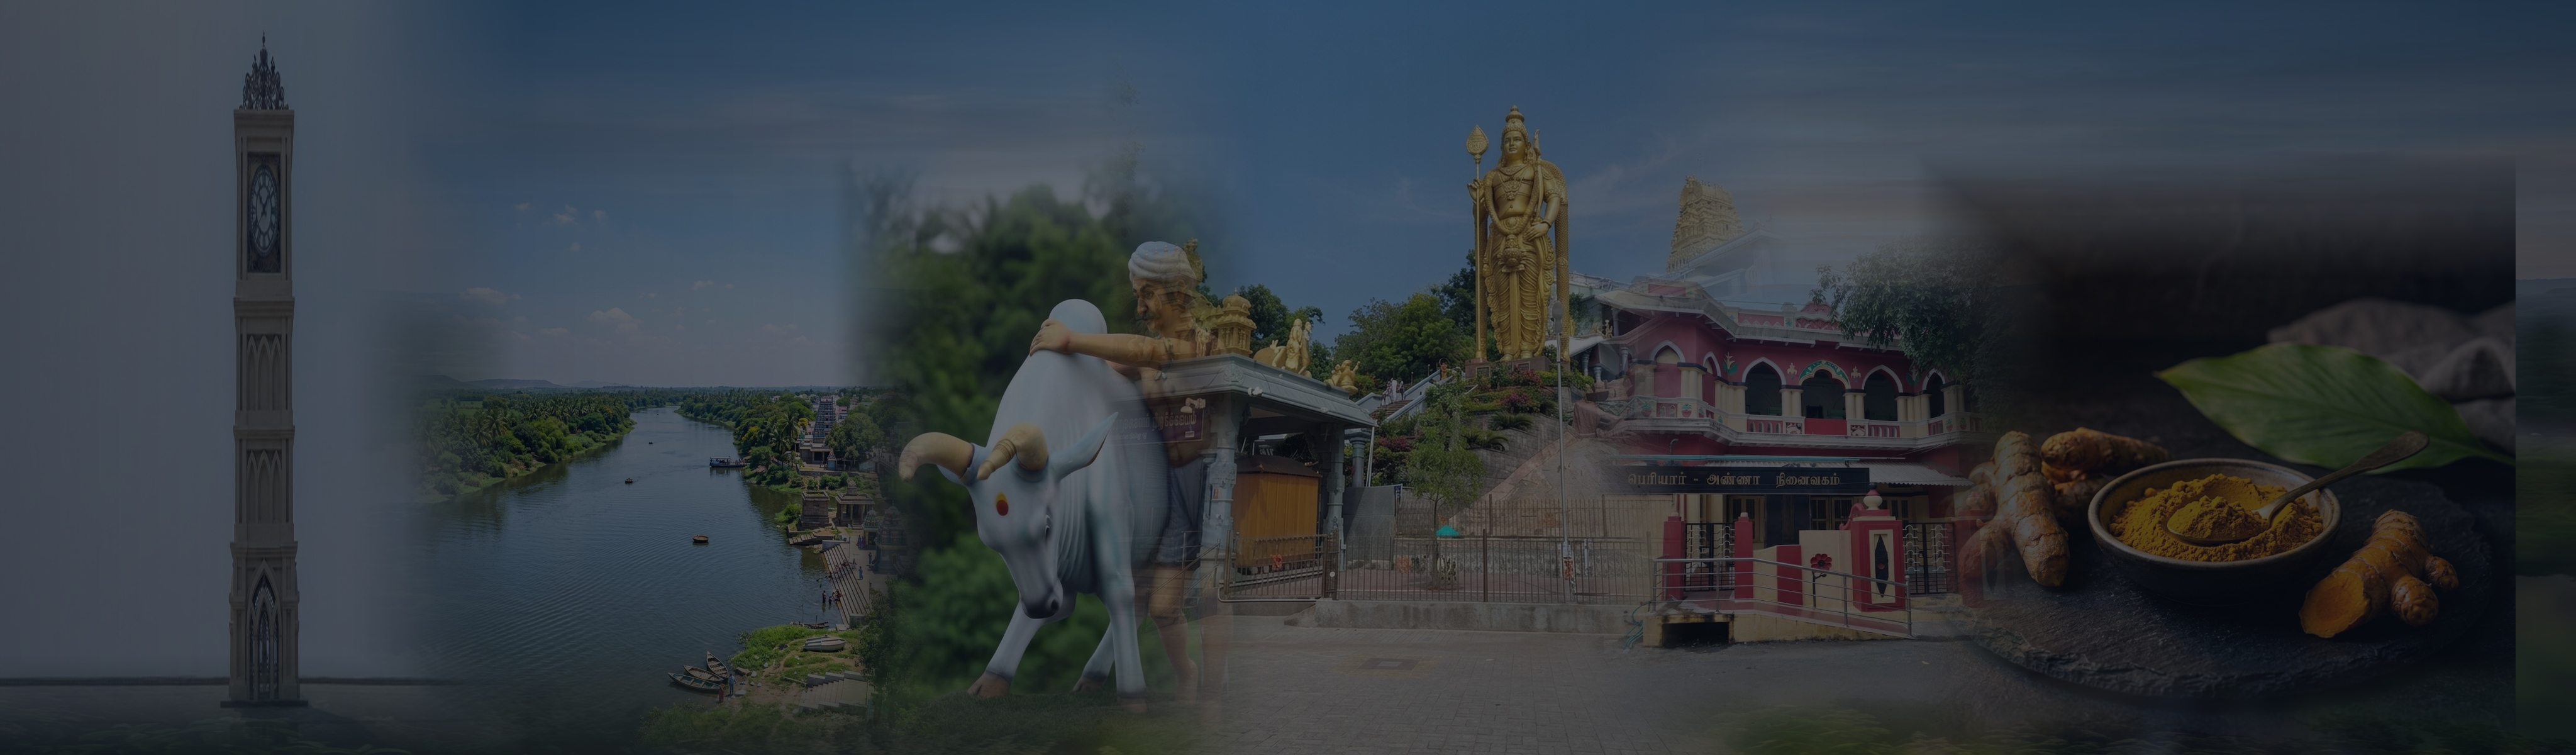
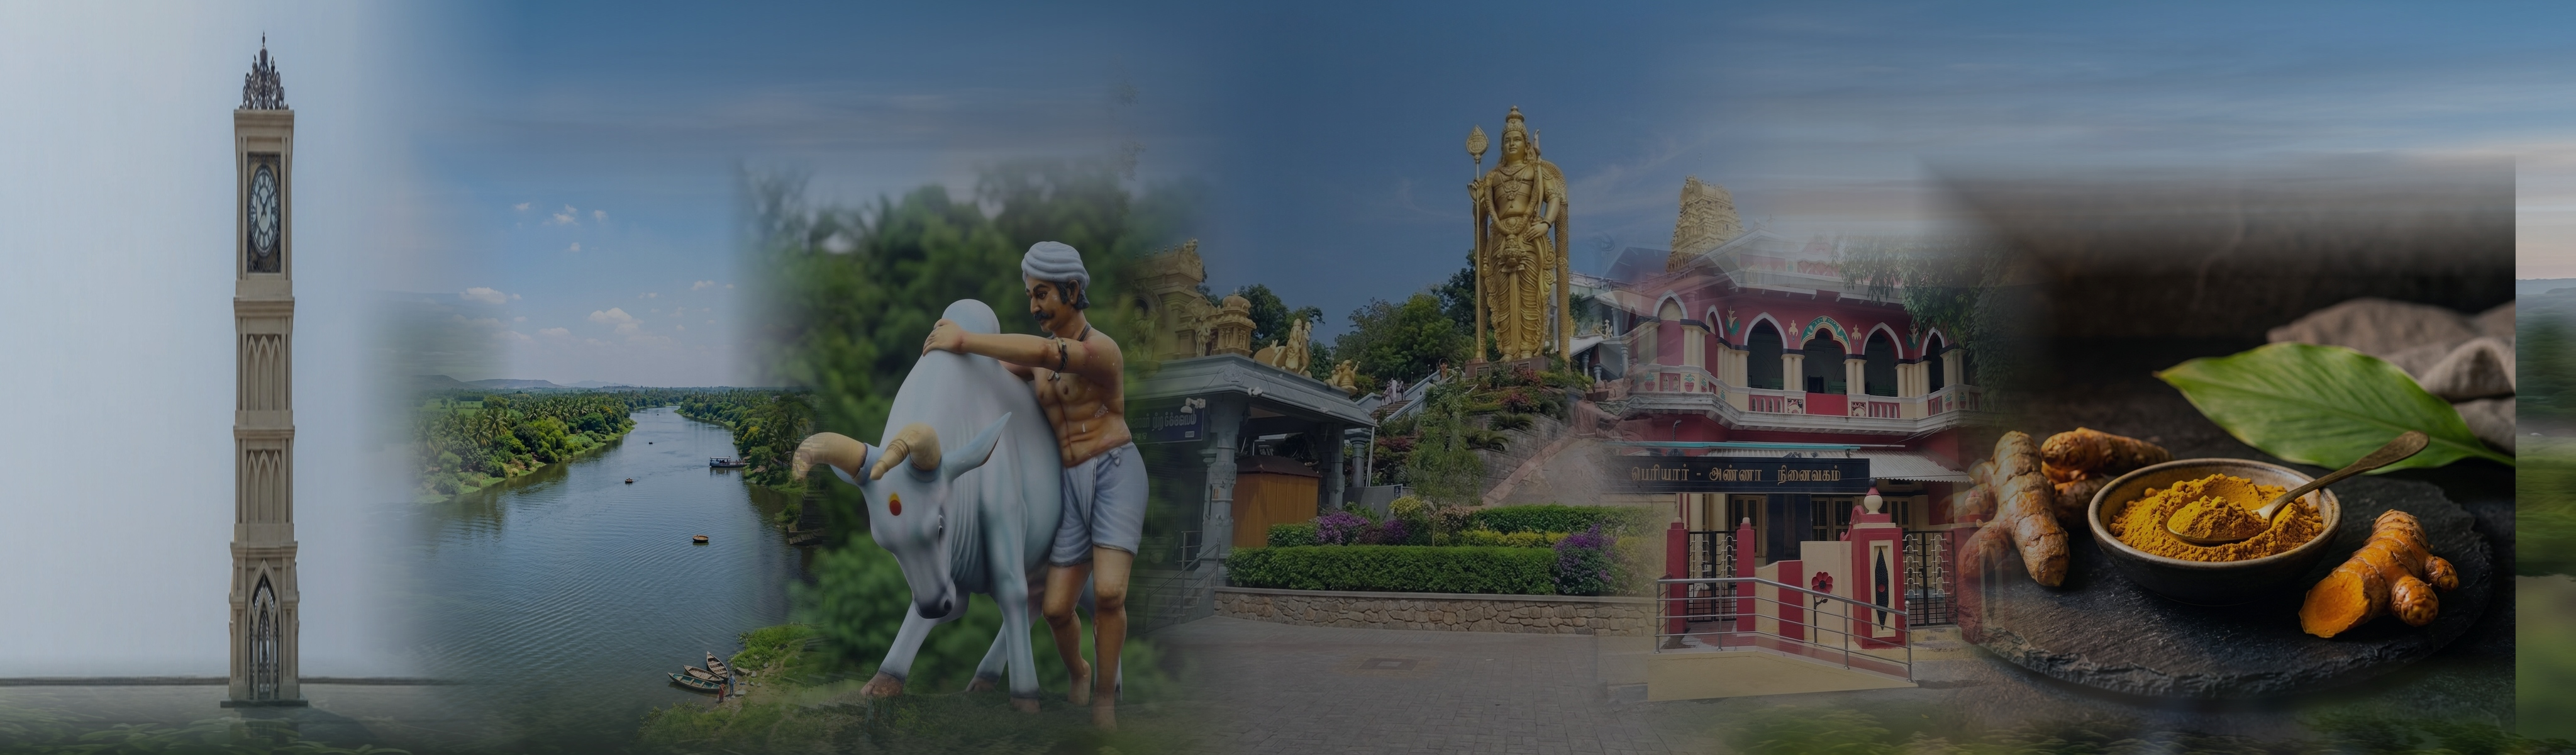
commit

diff --git a/scratch/compose_new_banner.py b/scratch/compose_new_banner.py
@@ -9,9 +9,9 @@ current_brain_dir = r"C:\Users\D E L L\.gemini\antigravity-ide\brain\de37b8fb-24
 
 # Load background and source images
 bg_src = Image.open(os.path.join(artifacts_dir, "erode_base_bg_1784203523617.png")).convert("RGBA")
-temple_src = Image.open(r"C:\Users\D E L L\.gemini\antigravity-ide\brain\89c085ef-d0b9-4591-bbb7-f9d891933478\clean_temple_1784282467277.png").convert("RGBA")
+temple_src = Image.open(r"C:\Users\D E L L\.gemini\antigravity-ide\brain\89c085ef-d0b9-4591-bbb7-f9d891933478\no_gate_temple_1784288415771.png").convert("RGBA")
 bull_src = Image.open(r"C:\Users\D E L L\.gemini\antigravity-ide\brain\89c085ef-d0b9-4591-bbb7-f9d891933478\clean_bull_statue_1784283375369.png").convert("RGBA")
-periyar_src = Image.open(os.path.join(artifacts_dir, "media__1784197542795.jpg")).convert("RGBA")
+periyar_src = Image.open(r"C:\Users\D E L L\.gemini\antigravity-ide\brain\89c085ef-d0b9-4591-bbb7-f9d891933478\clean_periyar_house_1784288715669.png").convert("RGBA")
 clock_src = Image.open(os.path.join(artifacts_dir, "media__1784197542006.png")).convert("RGBA")
 turmeric_src = Image.open(os.path.join(artifacts_dir, "creative_turmeric_1784197669804.png")).convert("RGBA")
 
@@ -91,11 +91,11 @@ kaveri_p_crop = kaveri_src.resize((kaveri_p_w, kaveri_p_h), Image.Resampling.LAN
 kaveri_p_mask = create_feathered_mask(kaveri_p_w, kaveri_p_h, fade_left=180, fade_right=180, fade_top=160, fade_bottom=160)
 desktop.paste(kaveri_p_crop, (640, 200), kaveri_p_mask)
 
-# 4. Add Bull Statue in the middle (w: 840, h: 960, x: 1320, y: 240)
+# 4. Add Bull Statue in the middle (w: 840, h: 960, x: 1150, y: 240)
 bull_w, bull_h = 840, 960
 bull_crop = bull_src.resize((bull_w, bull_h), Image.Resampling.LANCZOS)
 bull_mask = create_feathered_mask(bull_w, bull_h, fade_left=180, fade_right=180, fade_top=160, fade_bottom=160)
-desktop.paste(bull_crop, (1320, 240), bull_mask)
+desktop.paste(bull_crop, (1150, 240), bull_mask)
 
 # 5. Add Temple in the middle-right (w: 1100, h: 1200, x: 1750, y: 0)
 # Zoom by cropping the 1024x1024 image to a smaller central region
@@ -123,18 +123,20 @@ desktop.paste(turmeric_crop, (3040, 240), turmeric_mask)
 converter = ImageEnhance.Color(desktop)
 desktop = converter.enhance(1.00)
 
-# Brightness: 0.72 (dark enough for white text readability)
+# Brightness: 0.92 (Make the whole image brighter)
 brightness_enhancer = ImageEnhance.Brightness(desktop)
-desktop = brightness_enhancer.enhance(0.72)
+desktop = brightness_enhancer.enhance(0.92)
 
-# Apply dark blue gradient overlay vignette to ensure readability in the center and edges
+# Apply dark blue gradient overlay vignette to ensure readability in the center
+# and high visibility for the statues on the sides
 overlay = Image.new("RGBA", (canvas_w, canvas_h), (9, 12, 21, 0))
 draw = ImageDraw.Draw(overlay)
 
 for x in range(canvas_w):
     dist_from_center = abs(x - canvas_w // 2) / (canvas_w // 2)
-    # 95 opacity in center to 160 opacity at the edges
-    alpha = int(95 + 65 * dist_from_center) 
+    # 130 opacity in the center (for high text readability)
+    # and 30 opacity at the edges (to make the side statues clear and visible)
+    alpha = int(130 - 100 * dist_from_center) 
     draw.line([(x, 0), (x, canvas_h)], fill=(9, 15, 27, alpha))
 
 final_desktop = Image.alpha_composite(desktop, overlay).convert("RGB")
@@ -197,7 +199,7 @@ converter_m = ImageEnhance.Color(mobile)
 mobile = converter_m.enhance(1.00)
 
 brightness_m = ImageEnhance.Brightness(mobile)
-mobile = brightness_m.enhance(0.72)
+mobile = brightness_m.enhance(0.92)
 
 # Mobile overlay (vertical gradient vignette) to improve contrast
 m_overlay = Image.new("RGBA", (m_w, m_h), (9, 12, 21, 0))
@@ -205,7 +207,7 @@ draw_m_overlay = ImageDraw.Draw(m_overlay)
 
 for y in range(m_h):
     dist_from_center = abs(y - m_h // 2) / (m_h // 2)
-    alpha = int(105 + 55 * dist_from_center)
+    alpha = int(130 - 100 * dist_from_center)
     draw_m_overlay.line([(0, y), (m_w, y)], fill=(9, 15, 27, alpha))
 
 final_mobile = Image.alpha_composite(mobile, m_overlay).convert("RGB")

diff --git a/scratch/composite_banner.py b/scratch/composite_banner.py
@@ -6,9 +6,9 @@ dest_dir = r"d:\My project\AnimatedClinicalLab-main\AnimatedClinicalLab-main\www
 
 # Load background and source images
 bg_src = Image.open(os.path.join(artifacts_dir, "erode_base_bg_1784203523617.png")).convert("RGBA")
-temple_src = Image.open(r"C:\Users\D E L L\.gemini\antigravity-ide\brain\89c085ef-d0b9-4591-bbb7-f9d891933478\clean_temple_1784282467277.png").convert("RGBA")
+temple_src = Image.open(r"C:\Users\D E L L\.gemini\antigravity-ide\brain\89c085ef-d0b9-4591-bbb7-f9d891933478\no_gate_temple_1784288415771.png").convert("RGBA")
 bull_src = Image.open(r"C:\Users\D E L L\.gemini\antigravity-ide\brain\89c085ef-d0b9-4591-bbb7-f9d891933478\clean_bull_statue_1784283375369.png").convert("RGBA")
-periyar_src = Image.open(os.path.join(artifacts_dir, "media__1784197542795.jpg")).convert("RGBA")
+periyar_src = Image.open(r"C:\Users\D E L L\.gemini\antigravity-ide\brain\89c085ef-d0b9-4591-bbb7-f9d891933478\clean_periyar_house_1784288715669.png").convert("RGBA")
 clock_src = Image.open(os.path.join(artifacts_dir, "media__1784197542006.png")).convert("RGBA")
 turmeric_src = Image.open(os.path.join(artifacts_dir, "creative_turmeric_1784197669804.png")).convert("RGBA")
 

diff --git a/scratch/merge_banner.py b/scratch/merge_banner.py
@@ -6,10 +6,10 @@ dest_dir = r"d:\My project\AnimatedClinicalLab-main\AnimatedClinicalLab-main\www
 
 # Input paths
 paths = {
-    "periyar": os.path.join(artifacts_dir, "media__1784197542795.jpg"),
+    "periyar": r"C:\Users\D E L L\.gemini\antigravity-ide\brain\89c085ef-d0b9-4591-bbb7-f9d891933478\clean_periyar_house_1784288715669.png",
     "clock": os.path.join(artifacts_dir, "media__1784197542006.png"),
     "bull": r"C:\Users\D E L L\.gemini\antigravity-ide\brain\89c085ef-d0b9-4591-bbb7-f9d891933478\clean_bull_statue_1784283375369.png",
-    "temple": r"C:\Users\D E L L\.gemini\antigravity-ide\brain\89c085ef-d0b9-4591-bbb7-f9d891933478\clean_temple_1784282467277.png",
+    "temple": r"C:\Users\D E L L\.gemini\antigravity-ide\brain\89c085ef-d0b9-4591-bbb7-f9d891933478\no_gate_temple_1784288415771.png",
     "turmeric": os.path.join(artifacts_dir, "creative_turmeric_1784197669804.png")
 }
 